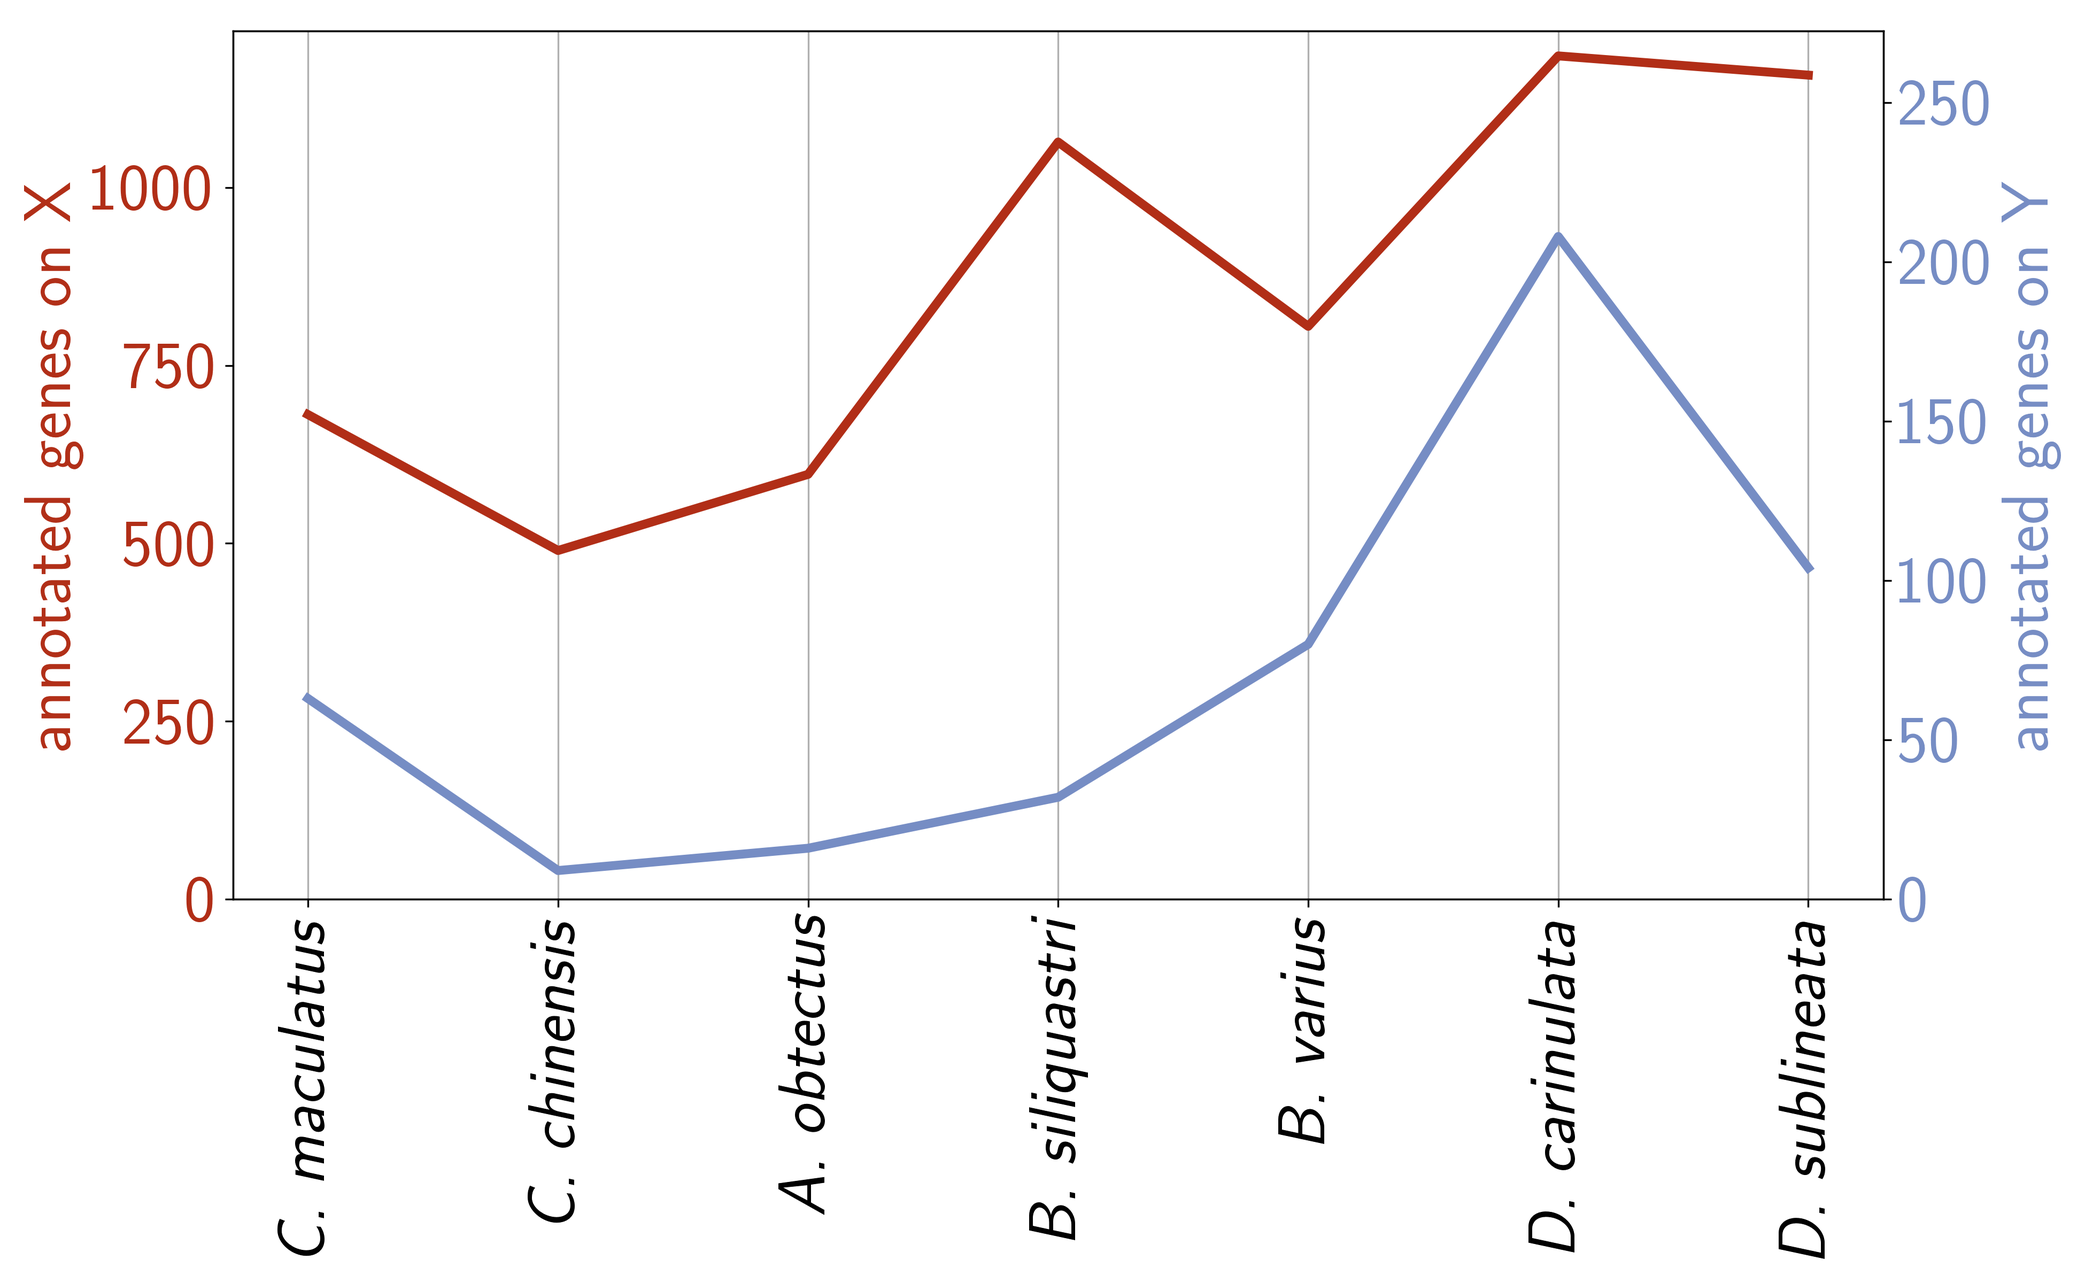
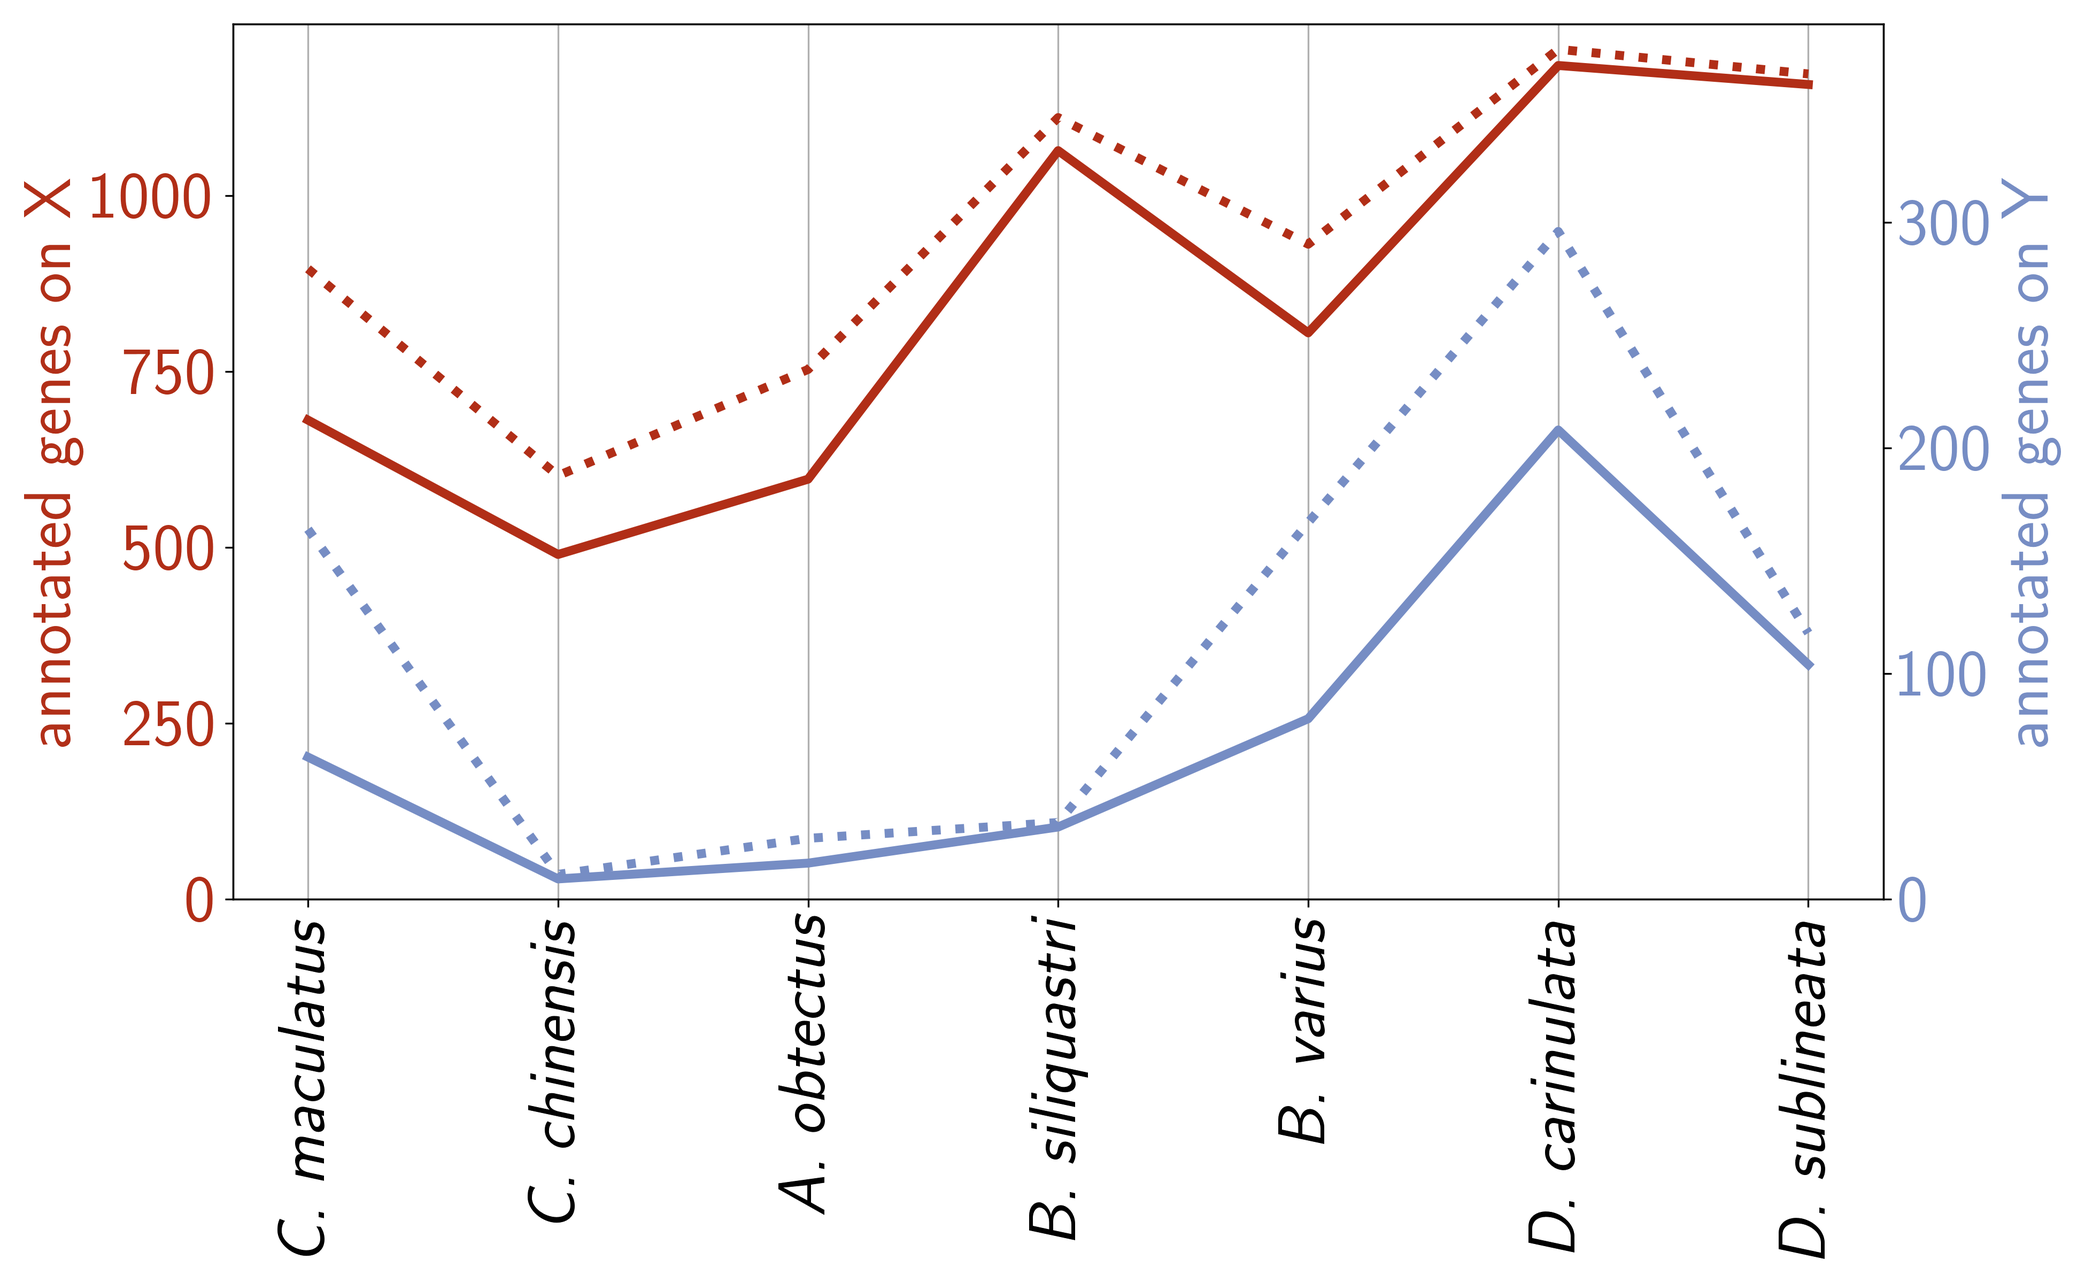
update summary stats

diff --git a/index.html b/index.html
@@ -511,23 +511,68 @@ coleoptera_samples/chinensis-M3new_ref.bam.idxstats </code></pre>
     </p>
 </div>
 <div style="float: right;width: 55%;">
+<p>
+    <b>Bold</b> lines are counts from only the annotation, <b>dotted</b> lines are also including miniprot paralogs.<br>
+    <i>C. chinensis</i> has a very fragmented assembly and likely both sex chromosomes are missing a good amount of material. 
+    Probably an underrepresentation of annotated genes at least on Y.
+</p>
+
+<p>
+    <b>Numbers in the plot:</b><br>
+    The numbers are presented as: <code>annotation</code> + <code>miniprot</code> = <code>sum of both</code>
+</p>
 <ul>
-    <li><i>C. chinensis</i> has a very fragmented assembly, probably an underrepresentation of annotated genes at least on Y.</li>
-    <li><i>C. maculatus</i> has a few hundred in some versions of the annotation, <span style="color:#BD351E">TODO how do I talk about that? Or do I just not mention it?</span></li>
-    <li><i>Bruchidius</i> shows that the small-genome <i>siliquastri</i> has more on X and less on Y, with the inverse in large-genome <i>varius</i>.</li>
-    <li><i>Diorhabda</i> has lots of genes on both X and Y.</li>
+    <li><i>C. maculatus</i> &nbsp;&#8594; <b>X</b>: 681 + 215 = 896 ; &nbsp;<b>Y</b>: 63 + 101 = 164
+    </li>
+    <li style="margin-top: -0.15em;"><i>C. chinensis</i>&nbsp;&nbsp; &#8594; <b>X</b>: 490 + 112 = 602 ; &nbsp;&nbsp;<b>Y</b>: 9 + 2 = 11
+    </li>
+    <li style="margin-top: -0.15em;"><i>A. obtectus</i>&nbsp;&nbsp;&nbsp; &#8594; <b>X</b>: 597 + 156 = 753 ; &nbsp;&nbsp;<b>Y</b>: 16 + 11 = 27
+    </li>
+    <li style="margin-top: -0.15em;"><i>B. siliquastri</i>&nbsp;&nbsp; &#8594; <b>X</b>: 1064 + 47 = 1111 ; &nbsp;<b>Y</b>: 32 + 2 = 34
+    </li>
+    <li style="margin-top: -0.15em;"><i>B. varius</i> &nbsp;&nbsp;&nbsp;&nbsp;&nbsp;&nbsp;&nbsp;&#8594; <b>X</b>: 805 + 126 = 931 ; &nbsp;&nbsp;<b>Y</b>: 80 + 87 = 167
+    </li>
+    <li style="margin-top: -0.15em;"><i>D. carinulata</i> &nbsp;&#8594; <b>X</b>: 1185 + 23 = 1208 ; <b>Y</b>: 208 + 88 = 296
+    </li>
+    <li style="margin-top: -0.15em;"><i>D. sublineata</i> &#8594; <b>X</b>: 1158 + 15 = 1173 ; &nbsp;<b>Y</b>: 104 + 14 = 118
+    </li>
 </ul>
 </div>
 <div style="clear: both;"></div>
 
 <h3>Gene density</h3>
 
-<p>
-    <span style="color:#BD351E">TODO: <br>
-    number of genes per kbp <br>
-    bp annotated as exons per total bp</span>
-</p>
+<p>Gene density (percentage of bp annotated as coding regions (exons) all bp, per scaffold, shown is mean and SEM) </p>
 
+<div style="float: left;width: 32%;">
+    <p>gene annotations</p>
+    <p float="left">
+        <img loading="lazy" src="data/sex_chromosome_gene_density_gene.png" width="100%" />
+    </p>
+    <p><span style="color: #BD351E;"><b>TODO</b> check <i>Diorhabda</i>, if reading exons is correct, coding proportion of 10% seems insane</span></p>
+</div>
+<div style="float: left;width: 32%;">
+    <p>mini prot alignment hits</p>
+    <p float="left">
+        <img loading="lazy" src="data/sex_chromosome_gene_density_mini.png" width="100%" />
+    </p>
+    <p><span style="color: #BD351E;">miniprot does include introns right now!<br> <b>TODO</b> fix read CDS not just mRNA</span></p>
+</div>
+<div style="float: left;width: 32%;">
+    <p>sum of both</p>
+    <p float="left">
+        <img loading="lazy" src="data/sex_chromosome_gene_density_all.png" width="100%" />
+    </p>
+</div>
+<div style="clear: both;"></div>
+
+<h3>Other</h3>
+
+<p>Ideas for other things if there is time</p>
+<ul>
+    <li>gene length (should be easy)</li>
+    <li>GC content (check if miniprot alignments can be extracted as nucleotide fasta </li>
+</ul>
 
 <h2 id="res-chrysomelidae-wga">Whole genome alignments</h2>
 
@@ -2325,6 +2370,10 @@ NC_079473.1 2336684 2337900 scaffold_16 8524456 8529819 color=lorange</code></pr
 
 <h4>miniprot paralogs (sex chromosomes only)</h4>
 
+<p>
+    only alignments with &gt; 95% sequence identity shown.
+</p>
+
 <div class="tab">
     <button class="tablinks" onclick="openTab(event, 'circos_miniprot_A_obtectus_XY')"><i>A. obtectus</i></button>
     <button class="tablinks" onclick="openTab(event, 'circos_miniprot_B_siliquastri_XY')"><i>B. siliquastri</i></button>
@@ -2378,6 +2427,14 @@ NC_079473.1 2336684 2337900 scaffold_16 8524456 8529819 color=lorange</code></pr
 </div>
 
 <h4>miniprot paralogs (all)</h4>
+
+<p>
+    only alignments with &gt; 95% sequence identity shown.
+</p>
+<p>
+    It seems like these kinds of paralogs are appear across chromosomes, mostly within and between regions of high paralog density, see esp. <i>B. siliquastri</i>
+    (looks like the middle of the chromosome? <i>B. siliquastri</i> as super high repeat abundance in those regions which are probably centromeres).
+</p>
 
 <div class="tab">
     <button class="tablinks" onclick="openTab(event, 'circos_miniprot_A_obtectus')"><i>A. obtectus</i></button>

diff --git a/src/plot_gene_density.py b/src/plot_gene_density.py
@@ -1,0 +1,170 @@
+"""
+calculate gene density as bp_annotated_exon_or_cds / bp_total_from_fai
+"""
+from pairwise_wga_heatmap import fasta_indices
+from sex_chromosomes import get_contig_names
+from plot_gene_counts import get_miniprot_paths
+import miniprot_stats_comparison as minialn
+import parse_gff as gff
+from statistics import mean
+from scipy.stats import sem
+import matplotlib.pyplot as plt
+from circos.make_circos_karyotype_file import autosomes_lists
+from matplotlib.ticker import FuncFormatter
+import numpy as np
+
+
+def get_exon_counts(miniprot_filepath, miniprot=True, gff_annot=False):
+    """
+    read the gff files and make dicts of {
+        species : {contig : exon_bp_count, contig : exon_bp_count , ...}
+    }
+    """
+    outdict = {}
+    if gff_annot==True:
+        annot_dict = gff.parse_gff3_general(filepath = miniprot_filepath, keep_feature_category=gff.FeatureCategory.Exon)
+        # print(list(annot_dict.keys())[:50])
+        miniprot=False
+    if miniprot==True:
+        annot_dict = minialn.miniprot_parse_alignment(miniprot_file=miniprot_filepath, queryIDs=False)
+    
+
+    for miniID, gene_feature in annot_dict.items():
+        outdict.setdefault(gene_feature.contig, 0) # if contig not yet in the dict then add it as new key with value 0
+        outdict[gene_feature.contig] += gene_feature.length()
+
+    return outdict
+
+
+def calculate_gene_density(contig_lengths, species_miniprot, species_gff, sex_chromosomes, autosomes):
+
+    miniprot_exon_counts = get_exon_counts(species_miniprot, miniprot=True)
+    gff_exon_counts = get_exon_counts(species_gff, gff_annot=True)
+    gene_density = { contig : {"all" : 0.0, "gene" : 0.0, "mini" : 0.0} for contig in contig_lengths.keys() }
+
+    ## calculate densities for every contig
+    for contig, contig_length in contig_lengths.items():
+        try:
+            gff_count = gff_exon_counts[contig]
+        except:
+            gff_count = 0
+        try:
+            mini_count = miniprot_exon_counts[contig]
+        except:
+            mini_count = 0
+        
+        all_count = gff_count+mini_count
+        gene_density[contig]["all"] = all_count/contig_length
+        gene_density[contig]["gene"] = gff_count/contig_length
+        gene_density[contig]["mini"] = mini_count/contig_length
+    
+    ## calculate mean density for sex chromosomes, autosomes, and unplaced scaffolds
+    sex_chromosomes["A"] = autosomes
+    placed_scaffolds = sex_chromosomes["A"] + sex_chromosomes["X"] + sex_chromosomes["Y"]
+    all_scaffolds = list(contig_lengths.keys())
+    sex_chromosomes["unplaced"] = list(set(all_scaffolds) - set(placed_scaffolds))
+
+    densities_category = { category : {"all" : [], "gene" : [], "mini" : []} for category in sex_chromosomes.keys()}
+    for chr_category, contig_list in sex_chromosomes.items():
+        for gene_category in ["all","gene","mini"]:
+            for contig in contig_list:
+                densities_category[chr_category][gene_category].append(gene_density[contig][gene_category])
+
+    return densities_category
+
+def plot_gene_density(gene_density_dict, outfile_name = ""):
+    chromosome_categories = ["unplaced", "A", "X", "Y"]
+
+    plt.rcParams['text.usetex'] = True # use \\textit{{{}}} for species names
+    plt.rcParams['text.latex.preamble'] = r'\usepackage{sfmath} \renewcommand{\familydefault}{\sfdefault}'
+    plt.rcParams['font.family'] = 'sans-serif'
+
+    colors = {
+        "A" : "#748B7A",
+        "X" : "#BD351E", # red
+        "Y" : "#5E79BD", # blue
+        "unplaced" : "#909bb5"
+    }
+    legend_label = {
+        "A" : "Autosomes",
+        "unplaced" : "unpl. scaffolds",
+        "X" : "X chromosome",
+        "Y" : "Y chromosome"
+    }
+    
+    fs = 30 # set font size
+    species_names = sorted(list(gene_density_dict.keys()))
+    
+    point_offset=0.05
+    xtick_ticklabel_pos = [i for i in range(len(species_names))]
+    
+    for annot in ["all","gene","mini"]:
+        print(f" * {annot}")
+        fig, ax = plt.subplots(1, 1, figsize=(13, 8))
+
+        for i,cat in enumerate(chromosome_categories):
+            mean_list = [0.0 for s in species_names]
+            stderr_list = [0.0 for s in species_names]
+            for j, species in enumerate(species_names):
+                if gene_density_dict[species][cat][annot]==[]:
+                    mean_list[j] = np.nan
+                    stderr_list[j] = np.nan
+                else:
+                    mean_list[j] = mean(gene_density_dict[species][cat][annot])
+                    stderr_list[j] = sem(gene_density_dict[species][cat][annot])
+            xtick_pos = [k+point_offset*i for k in xtick_ticklabel_pos]
+            # ax.plot(xtick_pos, mean_list, label = legend_label[cat], color = colors[cat], linewidth = 4) 
+            print(f"\t{cat}: {mean_list}")
+            ax.errorbar(xtick_pos, mean_list, yerr = stderr_list, color=colors[cat], linewidth =3, marker = ".", markersize=20, linestyle = ":", label = legend_label[cat])
+
+        ax.yaxis.set_major_formatter(FuncFormatter(lambda x, pos: '' if x > 1 else f'{x*100.0:.0f}\%'))
+        ylab = f"gene density"
+        ax.set_ylabel(ylab, fontsize = fs)
+        ax.tick_params(axis ='y', labelsize = fs)  
+        # ymin,ymax = ax.get_ylim()
+        # ax.set_ylim(0,ymax)
+
+        ax.set_xticks([j+point_offset*1.5 for j in xtick_ticklabel_pos])
+        species_axis_labels = [species.replace("_", ". ") for species in species_names]
+        ax.set_xticklabels([f"\\textit{{{species}}}" for species in species_axis_labels], rotation=90, fontsize=fs)
+        
+        # set grid only for X axis ticks 
+        ax.grid(True)
+        ax.yaxis.grid(False)
+        
+        ax.tick_params(axis='y', labelsize=fs)
+        ax.legend(fontsize=fs)
+
+        plt.tight_layout()
+
+        outfile_annot = outfile_name.replace(".png", f"_{annot}.png")
+        plt.savefig(outfile_annot, dpi = 300, transparent = True)# , bbox_inches='tight')
+        print("Figure saved as: "+outfile_annot)
+
+
+if __name__ == "__main__":
+    username = "miltr339"
+    faidx_dicts,_ = fasta_indices(username=username)
+    miniprot_dict = get_miniprot_paths(username=username)
+    annot_path_dict = minialn.get_gff_annot_paths(username=username)
+    sex_chromosomes_dict = get_contig_names()
+    autosomes_dict = autosomes_lists()
+    data_dir = f"/Users/{username}/work/PhD_code/PhD_chapter2/data/"
+
+    gene_densities = {}
+    for species, miniprot_path in miniprot_dict.items():
+        print(f"\n====================== {species} ======================")
+        
+        gene_densities[species] = calculate_gene_density(
+            contig_lengths=faidx_dicts[species], 
+            species_miniprot=miniprot_path,
+            species_gff=annot_path_dict[species],
+            sex_chromosomes=sex_chromosomes_dict[species],
+            autosomes=autosomes_dict[species]
+            )
+        
+        # for chr_category, density_dict in gene_densities[species].items():
+        #     print(f" - {chr_category} : {density_dict}\n\n")
+
+
+    plot_gene_density(gene_density_dict=gene_densities, outfile_name=f"{data_dir}sex_chromosome_gene_density.png")

diff --git a/src/plot_gene_counts.py b/src/plot_gene_counts.py
@@ -8,6 +8,7 @@ from Bio import SeqIO, Phylo, SeqUtils
 import numpy as np
 import subprocess as sp
 from sex_chromosomes import get_contig_names
+import miniprot_stats_comparison as minialn
 
 def annotations_dict(username="miltr339"):
     dirname = f"/Users/{username}/work/chapter2/native_annotations"
@@ -22,6 +23,19 @@ def annotations_dict(username="miltr339"):
         "D_sublineata" : f"{dirname}/D_sublineata.gff",
     }   
     return out_dict
+
+def get_miniprot_paths(username="miltr339"):
+    dirpath = f"/Users/{username}/work/PhD_code/PhD_chapter2/data/miniprot/"
+    outdict = {
+        "A_obtectus" : f"{dirpath}A_obtectus_miniprot_no_cross_no_self_hits.gff",
+        "B_siliquastri" : f"{dirpath}B_siliquastri_miniprot_no_cross_no_self_hits.gff",
+        "B_varius" : f"{dirpath}B_varius_miniprot_no_cross_no_self_hits.gff",
+        "C_chinensis" : f"{dirpath}C_chinensis_miniprot_no_cross_no_self_hits.gff",
+        "C_maculatus" : f"{dirpath}C_maculatus_miniprot_no_cross_no_self_hits.gff",
+        "D_carinulata" : f"{dirpath}D_carinulata_miniprot_no_cross_no_self_hits.gff",
+        "D_sublineata" : f"{dirpath}D_sublineata_miniprot_no_cross_no_self_hits.gff",
+    }
+    return outdict
 
 
 def get_gene_conuts_from_annot(annot_path, contig_list):
@@ -42,6 +56,13 @@ def get_gene_conuts_from_annot(annot_path, contig_list):
     # print(f"{no_genes} contigs have no annotated genes")
     return num_proteins
 
+def get_gene_counts_from_miniprot(miniprot_path, contig_list):
+    mini_dict = minialn.miniprot_parse_alignment(miniprot_path, queryIDs=False)
+    no_genes=0
+    for mini_ID,aln_class in mini_dict.items():
+        if aln_class.contig in contig_list:
+            no_genes+=1
+    return no_genes
 
 def get_coords(tree):
     """
@@ -118,7 +139,7 @@ def plot_tree_manually(species_tree, ax_tree = None, add_leaf_label=False):
 
 
 
-def plot_gene_counts(annot_dict, species_tree, sex_chromosomes_dict, chr_list=["X","Y"], filename = "only_genome_sizes_14_species.png"):
+def plot_gene_counts(annot_dict, species_tree, sex_chromosomes_dict, miniprot_dict = {}, chr_list=["X","Y"], filename = "only_genome_sizes_14_species.png"):
     """
     plot gene counts from annotations (or proteinfasta, but preferably annotation), with a species tree on the x-axis
     """
@@ -154,9 +175,22 @@ def plot_gene_counts(annot_dict, species_tree, sex_chromosomes_dict, chr_list=["
     gene_nos_chr = {
         chr : [get_gene_conuts_from_annot(annot_dict[species], contig_list=sex_chromosomes_dict[species][chr]) for species in species_names] for chr in chr_list
     }
+    if miniprot_dict != {}:
+        miniprot_nos_chr = {
+            chr : [get_gene_counts_from_miniprot(miniprot_path=miniprot_dict[species], contig_list=sex_chromosomes_dict[species][chr])+gene_nos_chr[chr][i] for i,species in enumerate(species_names)] for chr in chr_list
+        }
+
+    print("----------------------------------------------------")
+    print(f"GENE NUMBERS\n - species\t\tchromosome: annotated + miniprot = sum\n")
+    for i, species in enumerate(species_names):
+        for chr in ["X","Y"]:
+            print(f" - {species}\t\t{chr}: {gene_nos_chr[chr][i]} + {miniprot_nos_chr[chr][i]-gene_nos_chr[chr][i]} = {miniprot_nos_chr[chr][i]}")
+    print("----------------------------------------------------")
 
     chr = chr_list[0]
-    ax_data.plot(species_names, gene_nos_chr[chr], label = f"{chr} chromosome", color = colors[chr], linewidth = 4) # red
+    ax_data.plot(species_names, gene_nos_chr[chr], label = f"{chr} chromosome", color = colors[chr], linewidth = 4) 
+    if miniprot_dict!={}:
+        ax_data.plot(species_names, miniprot_nos_chr[chr], label = f"{chr} with miniprot", linestyle=":", color = colors[chr], linewidth = 4) 
     ylab = f"annotated genes on {chr}"
     ax_data.set_ylabel(ylab, color = colors[chr], fontsize = fs)
     ax_data.tick_params(axis ='y', labelcolor = colors[chr], labelsize = fs)  
@@ -165,7 +199,9 @@ def plot_gene_counts(annot_dict, species_tree, sex_chromosomes_dict, chr_list=["
     
     chr=chr_list[1]
     ax2 = ax_data.twinx() 
-    ax2.plot(species_names, gene_nos_chr[chr], label = f"{chr} chromosome", color = colors[chr], linewidth = 4) # red
+    ax2.plot(species_names, gene_nos_chr[chr], label = f"{chr} chromosome", color = colors[chr], linewidth = 4) 
+    if miniprot_dict!={}:
+        ax2.plot(species_names, miniprot_nos_chr[chr], label = f"{chr} with miniprot", linestyle=":", color = colors[chr], linewidth = 4) 
     ylab = f"annotated genes on {chr}"
     ax2.set_ylabel(ylab, color = colors[chr], fontsize = fs)
     ax2.tick_params(axis ='y', labelcolor = colors[chr], labelsize = fs)  
@@ -196,6 +232,7 @@ if __name__=="__main__":
     username="miltr339"
     sex_chromosome_contigs = get_contig_names()
     annot_dict = annotations_dict(username=username)
+    miniprot_dict = get_miniprot_paths(username=username)
     species_order = [
 "C_maculatus",
 "C_chinensis",
@@ -205,4 +242,10 @@ if __name__=="__main__":
 "D_carinulata",
 "D_sublineata"]
     data_dir = f"/Users/{username}/work/PhD_code/PhD_chapter2/data/"
-    plot_gene_counts(annot_dict, species_tree=species_order, sex_chromosomes_dict=sex_chromosome_contigs, chr_list=["X","Y"], filename = f"{data_dir}sex_chromosome_gene_counts.png")
+    plot_gene_counts(
+        annot_dict=annot_dict, 
+        species_tree=species_order, 
+        sex_chromosomes_dict=sex_chromosome_contigs, 
+        chr_list=["X","Y"], 
+        miniprot_dict=miniprot_dict,
+        filename = f"{data_dir}sex_chromosome_gene_counts.png")

diff --git a/src/parse_gff.py b/src/parse_gff.py
@@ -246,6 +246,9 @@ class Feature:
 
     def add_child(self, child_id:str):
         self.child_ids_list.append(child_id)
+    
+    def length(self):
+        return abs(self.start-self.end)
 
     def __repr__(self):
         return "Feature"
